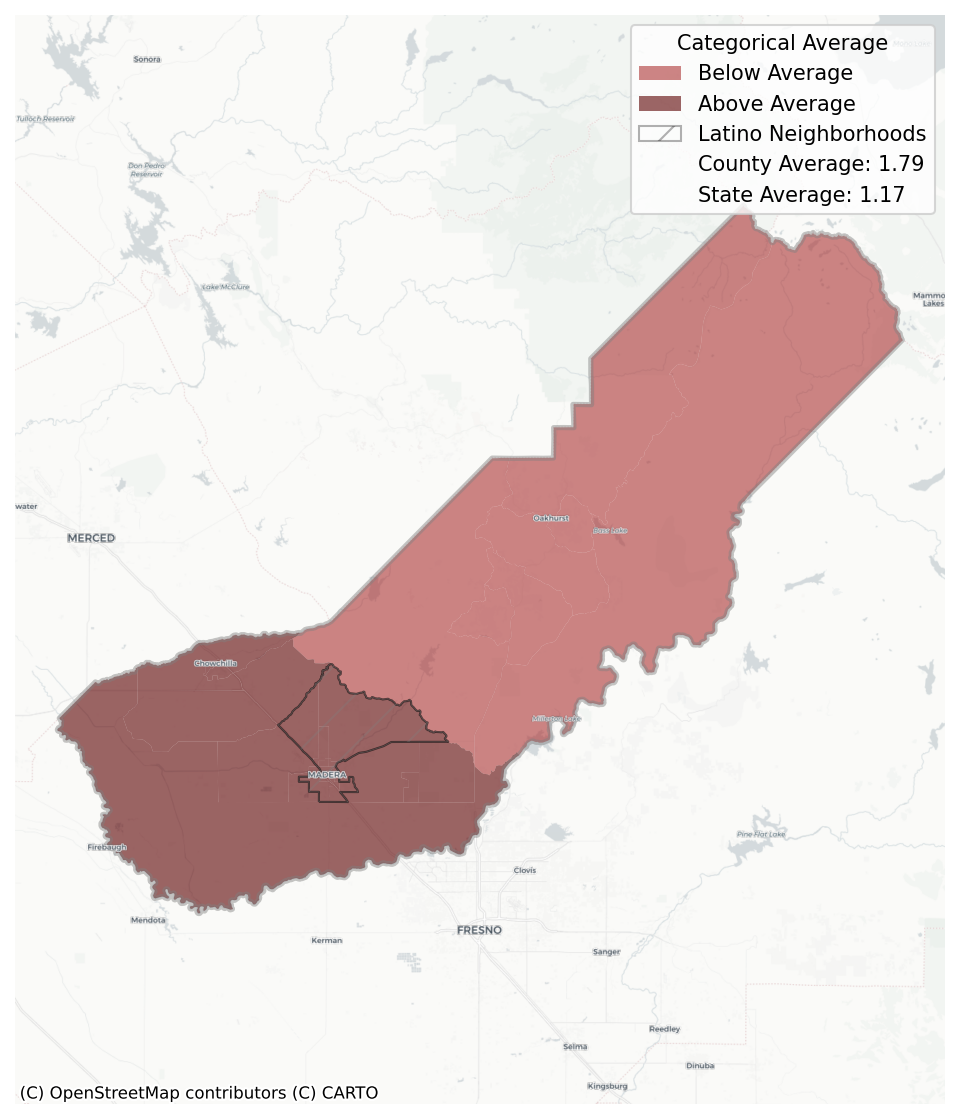
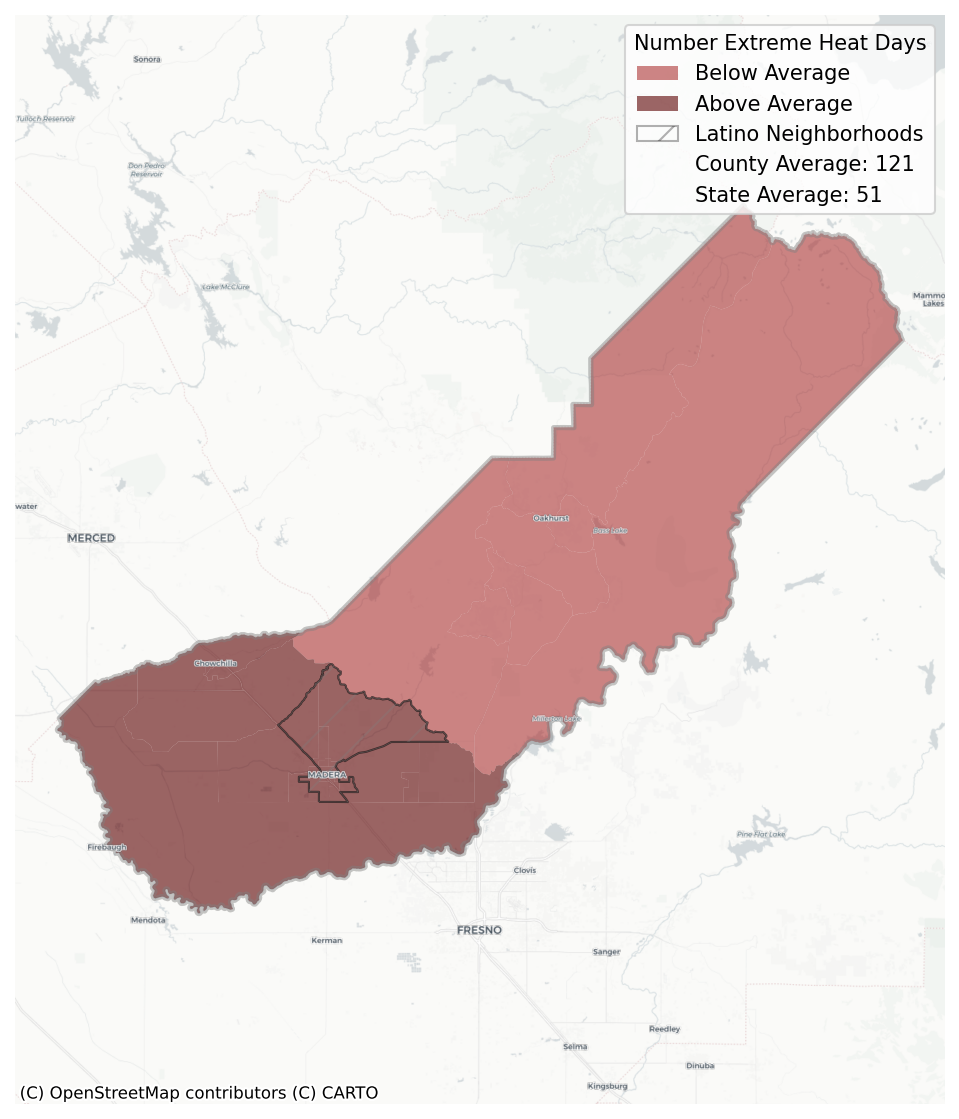
feat: integrate Google Sheet data into map generation

Changed region(s): [[0.635, 0.0304, 0.9677, 0.1823]]

diff --git a/map_utils.py b/map_utils.py
@@ -84,6 +84,18 @@ def generate_majority_tracts_map(
         print(f"County boundaries loaded: {counties_gdf.shape[0]} records")
         print(counties_gdf.head())
 
+        # Load Google Sheet data
+        print("Loading Google Sheet data from CSV")
+        google_sheet_url = 'https://docs.google.com/spreadsheets/d/e/2PACX-1vTDl0u8xAvazJjlCn62edUDjjK1tLwyi4hXihYpYIGOxawrN3_HfzvYKJ1ARzH4AzhrHZysIpkc_1Nc/pub?output=csv'
+        google_df = pd.read_csv(google_sheet_url, dtype={'County': str})
+        print(f"Google Sheet data loaded: {google_df.shape[0]} records")
+        print(google_df.head())
+
+        print("Merging Google Sheet data with county GeoDataFrame")
+        counties_gdf = counties_gdf.merge(google_df, how='left', left_on='name', right_on='County')
+        print(f"Counties after merge: {counties_gdf.shape[0]} records")
+        print(counties_gdf.head())
+
         print(f"Loading roads data from {road_data_path}")
         roads_gdf = gpd.read_file(road_data_path)
         print(f"Roads data loaded: {roads_gdf.shape[0]} records")
@@ -126,10 +138,10 @@ def generate_majority_tracts_map(
             'Below/Equal Average': 1,
             'Above Average': 2
         }
-        joined_gdf['categorical_average_num'] = joined_gdf['categorical_average'].map(category_mapping)
-        state_average = joined_gdf['categorical_average_num'].mean()
-        print(f"State Average: {state_average:.2f}")
-
+        # joined_gdf['categorical_average_num'] = joined_gdf['categorical_average'].map(category_mapping)
+        state_average = counties_gdf['avgDays_90F_state'].iloc[0]
+        print(f"State Average from Google Sheet (rounded to 1 decimal): {state_average:.0f}")
+        county_average = counties_gdf['avgDays_90F_county'].iloc[0]
         for county in counties:
             try:
                 print(f"Processing county: {county}")
@@ -143,6 +155,7 @@ def generate_majority_tracts_map(
                     print(f"No valid geometries for {county}")
                     continue
 
+
                 # Filter based on neighborhood type
                 latino_gdf = county_gdf[county_gdf['Neighborhood_type'].isin(['50+ Latino', '70+ Latino'])]
 
@@ -151,8 +164,10 @@ def generate_majority_tracts_map(
                 print(f"Dissolved Latino neighborhoods: {dissolved_latino_gdf.shape[0]} records")
 
                 # Calculate county average
-                county_average = county_gdf['categorical_average_num'].mean()
-                print(f"County Average: {county_average:.2f}")
+                # Retrieve county average from merged data
+                county_average = counties_gdf[counties_gdf['name'] == county]['avgDays_90F_county'].values[0]
+                print(f"County Average from Google Sheet: {county_average:.0f}")
+
 
                 # Get the matching county shape
                 county_shape = counties_gdf[counties_gdf['name'] == county]
@@ -279,20 +294,20 @@ def generate_majority_tracts_map(
                         Patch(
                             facecolor='none',
                             edgecolor='none',
-                            label=f'County Average: {county_average:.2f}'
+                            label=f'County Average: {county_average:.0f}'
                         )
                     )
                     legend_elements.append(
                         Patch(
                             facecolor='none',
                             edgecolor='none',
-                            label=f'State Average: {state_average:.2f}'
+                            label=f'State Average: {state_average:.0f}'
                         )
                     )
                     legend = ax.legend(
                         handles=legend_elements,
                         loc='upper right',
-                        title='Categorical Average',
+                        title='Number Extreme Heat Days',
                         frameon=True
                     )
                     legend.set_zorder(10)  # Ensure legend is on top

diff --git a/generate_heat_maps.py b/generate_heat_maps.py
@@ -32,9 +32,21 @@ def generate_maps(joined_geojson_path, pop_data_path, county_geojson_path, roads
         print(f"Population data loaded: {pop_df.shape[0]} records")
         print(pop_df.head())
 
-        print(f"Loading county boundaries from {county_geojson_path}")
+        print("Loading county boundaries from {county_geojson_path}")
         counties_gdf = gpd.read_file(county_geojson_path)
         print(f"County boundaries loaded: {counties_gdf.shape[0]} records")
+        print(counties_gdf.head())
+
+        # Load Google Sheet data
+        print("Loading Google Sheet data from CSV")
+        google_sheet_url = 'https://docs.google.com/spreadsheets/d/e/2PACX-1vTDl0u8xAvazJjlCn62edUDjjK1tLwyi4hXihYpYIGOxawrN3_HfzvYKJ1ARzH4AzhrHZysIpkc_1Nc/pub?output=csv'
+        google_df = pd.read_csv(google_sheet_url, dtype={'County': str})
+        print(f"Google Sheet data loaded: {google_df.shape[0]} records")
+        print(google_df.head())
+
+        print("Merging Google Sheet data with county GeoDataFrame")
+        counties_gdf = counties_gdf.merge(google_df, how='left', left_on='name', right_on='County')
+        print(f"Counties after merge: {counties_gdf.shape[0]} records")
         print(counties_gdf.head())
 
         print(f"Loading roads data from {roads_geojson_path}")

diff --git a/main.py b/main.py
@@ -1,3 +1,4 @@
+# python main.py 
 import os
 import argparse
 from threading import Timer
@@ -25,7 +26,7 @@ geojson_path = 'inputs/geojson/ca_counties_simplified.geojson'
 gdf = load_geojson(geojson_path)
 
 # Fetch population data (all rows)
-csv_url = 'https://docs.google.com/spreadsheets/d/e/2PACX-1vTDl0u8xAvazJjlCn62edUDjjK1tLwyi4hXihYpYIGOxawrN3_HfzvYKJ1ARzH4AzhrHZysIpkc_1Nc/pub?output=csv'
+csv_url = 'https://docs.google.com/spreadsheets/d/e/2PACX-1vTDl0u8xAvazJjlCn62edUDjjK1tLwyi4hXihYpYIGOxawrN3_HfzvYKJ1ARzH4AzhrHZysIpkc_1Nc/pub?gid=1869860862&single=true&output=csv'
 csv_url_for_text ='https://docs.google.com/spreadsheets/d/e/2PACX-1vQiypgV-S8LImCs_esQOIbFsEXkXiAndnmo7RdW9pFutH-hYMwl5eZf3RddwzUy8PcdEEu4PLk9a1k6/pub?output=csv'
 pop_data = fetch_population_data(csv_url)
 text_data = pd.read_csv(csv_url_for_text)
